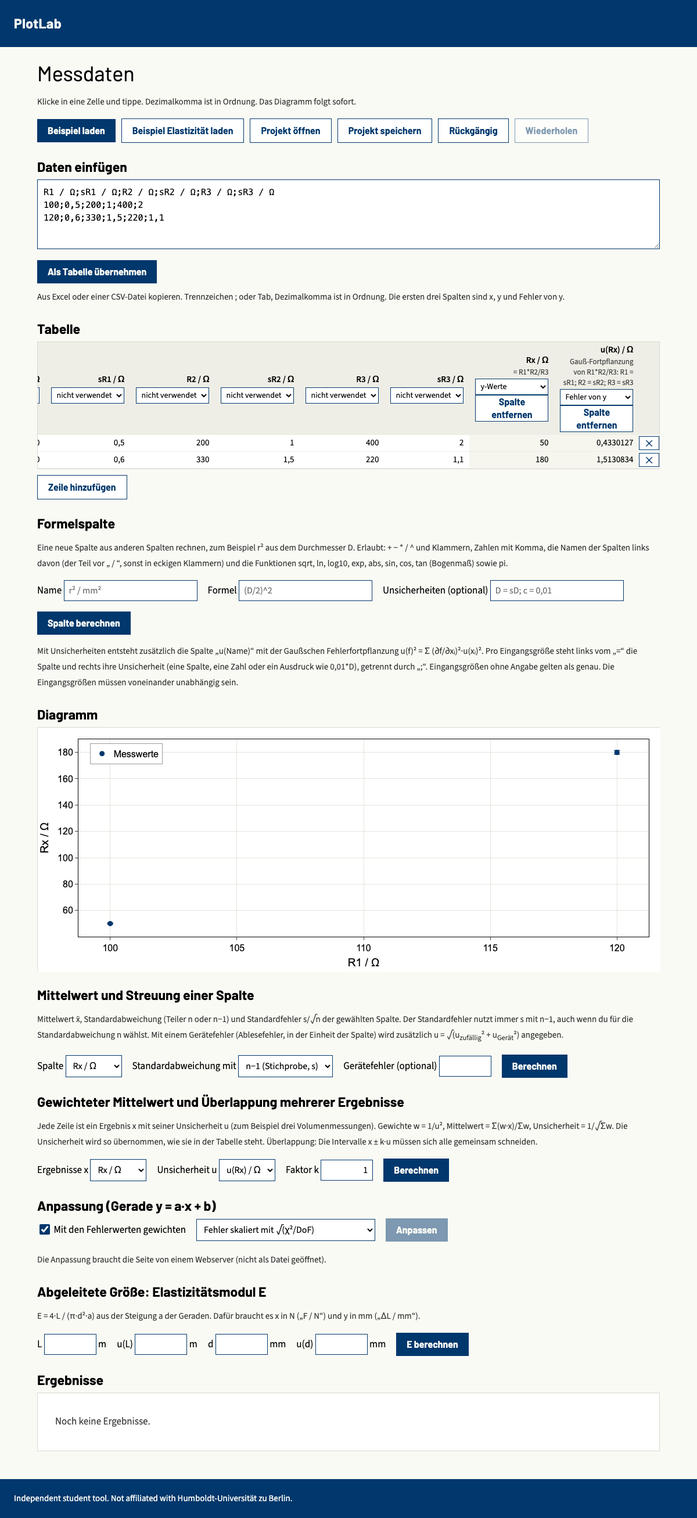
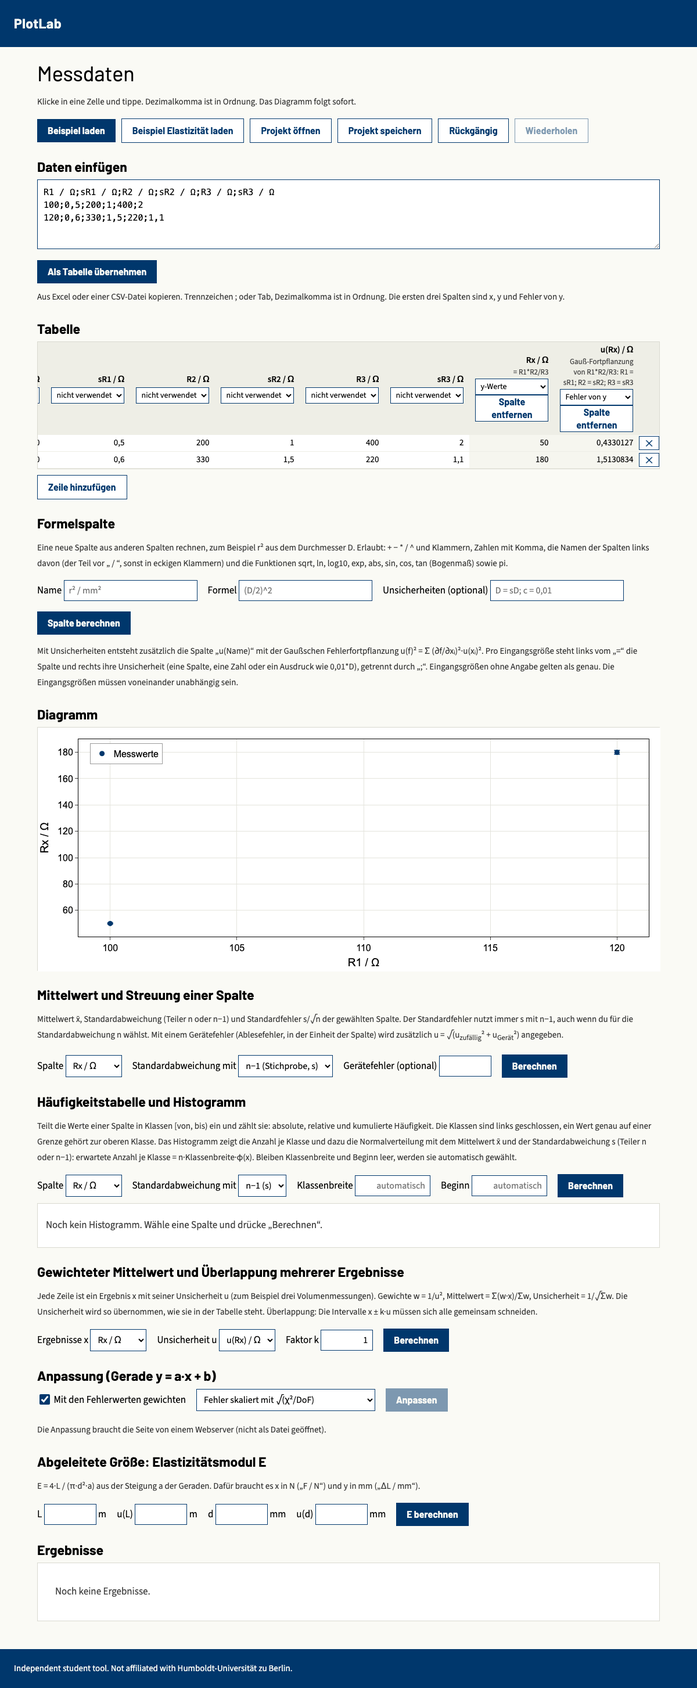
Phase 2 step 5: frequency table and histogram with normal curve

diff --git a/app/index.html b/app/index.html
@@ -53,6 +53,9 @@
   td input.bad { background:#fde8ea; outline:2px solid #B00020; outline-offset:-2px; }
   textarea { width:100%; height:120px; font:15px/22px ui-monospace, Menlo, Consolas, monospace; padding:10px; border:1px solid var(--blue); border-radius:0; background:#fff; resize:vertical; }
   #plot { background:#fff; border:1px solid var(--line); height:420px; }
+  #histplot { background:#fff; border:1px solid var(--line); height:400px; }
+  #histplot:has(> .empty) { height:auto; }
+  #h_w, #h_s { width:130px; }
   #results { background:#fff; border:1px solid var(--line); padding:12px 16px; }
   .result.stale .res { opacity:.5; }
   .res { font:700 20px "Barlow", system-ui, sans-serif; margin:2px 0; }
@@ -107,6 +110,17 @@
     <button class="btn" id="s_go" disabled>Berechnen</button>
   </div>
   <div id="statsmsg" class="msg" role="alert" hidden></div>
+  <h2>Häufigkeitstabelle und Histogramm</h2>
+  <p class="hint">Teilt die Werte einer Spalte in Klassen [von, bis) ein und zählt sie: absolute, relative und kumulierte Häufigkeit. Die Klassen sind links geschlossen, ein Wert genau auf einer Grenze gehört zur oberen Klasse. Das Histogramm zeigt die Anzahl je Klasse und dazu die Normalverteilung mit dem Mittelwert x̄ und der Standardabweichung s (Teiler n oder n−1): erwartete Anzahl je Klasse = n·Klassenbreite·φ(x). Bleiben Klassenbreite und Beginn leer, werden sie automatisch gewählt.</p>
+  <div class="fitbar" id="hist">
+    <label>Spalte <select id="h_col" aria-label="Spalte für das Histogramm"></select></label>
+    <label>Standardabweichung mit <select id="h_ddof" aria-label="Teiler der Standardabweichung für die Normalverteilung"><option value="1">n−1 (s)</option><option value="0">n (σ)</option></select></label>
+    <label>Klassenbreite <input class="num" id="h_w" aria-label="Klassenbreite in der Einheit der Spalte, leer für automatisch" inputmode="decimal" placeholder="automatisch"></label>
+    <label>Beginn <input class="num" id="h_s" aria-label="Beginn der ersten Klasse in der Einheit der Spalte, leer für automatisch" inputmode="decimal" placeholder="automatisch"></label>
+    <button class="btn" id="h_go" disabled>Berechnen</button>
+  </div>
+  <div id="hmsg" class="msg" role="alert" hidden></div>
+  <div id="histplot"><div class="empty">Noch kein Histogramm. Wähle eine Spalte und drücke „Berechnen“.</div></div>
   <h2>Gewichteter Mittelwert und Überlappung mehrerer Ergebnisse</h2>
   <p class="hint">Jede Zeile ist ein Ergebnis x mit seiner Unsicherheit u (zum Beispiel drei Volumenmessungen). Gewichte w = 1/u², Mittelwert = Σ(w·x)/Σw, Unsicherheit = 1/√Σw. Die Unsicherheit wird so übernommen, wie sie in der Tabelle steht. Überlappung: Die Intervalle x ± k·u müssen sich alle gemeinsam schneiden.</p>
   <div class="fitbar" id="wmean">
@@ -206,7 +220,7 @@ function restoreAutosave() {
 function setProject(p) {
   proj = p; undo = []; redo = []; editKey = null; updateHist();
   $("msg").hidden = true;
-  $("saveproj").disabled = $("addrow").disabled = $("f_add").disabled = $("s_go").disabled = $("w_go").disabled = false; if (worker?.ready && !pending) $("fit").disabled = false;
+  $("saveproj").disabled = $("addrow").disabled = $("f_add").disabled = $("s_go").disabled = $("w_go").disabled = $("h_go").disabled = false; if (worker?.ready && !pending) $("fit").disabled = false;
   render();
 }
 function showMsg(t) { $("msg").textContent = t; $("msg").hidden = false; }
@@ -268,7 +282,37 @@ function wmeanDetail(r) {
   return `<div class="detail" data-how>Ergebnisse „${esc(i.val)}“ mit Unsicherheiten „${esc(i.unc)}“, n = ${fmt.format(Number(r.n))} Zeilen. Gewichte w = 1/u², Mittelwert Σ(w·x)/Σw, Unsicherheit 1/√Σw.</div>` +
     `<div class="detail" data-verdict>Überlappung der Intervalle x ± ${k}·u: ${esc(r.verdict)}</div>`;
 }
+// Frequency table of the "hist" result. Every number goes through the number formatter, so text from a project file shows as NaN, not as markup.
+const pct = new Intl.NumberFormat("de-DE", { minimumFractionDigits: 1, maximumFractionDigits: 1 });
+const histOk = r => Array.isArray(r.counts) && r.counts.length > 0 && r.counts.length <= 200 && r.counts.every(Number.isFinite) && [r.start, r.width, r.mean, r.s, r.n].every(Number.isFinite) && r.width > 0 && r.s > 0 && r.n > 0;
+function histDetail(r) {
+  const i = r.inputs || {}, n = Number(r.n), w = Number(r.width), s0 = Number(r.start), c = (Array.isArray(r.counts) ? r.counts : []).slice(0, 200).map(Number);
+  const e = j => fmt.format(Number((s0 + j * w).toPrecision(12))), unit = (String(i.col).split("/")[1] || "").trim();
+  let cum = 0;
+  const rows = c.map((k, j) => { cum += k; return `<tr><td>${e(j)} bis unter ${e(j + 1)}</td><td>${fmt.format(k)}</td><td>${pct.format(k / n * 100)} %</td><td>${fmt.format(cum)}</td><td>${pct.format(cum / n * 100)} %</td></tr>`; }).join("");
+  return `<table data-freq><thead><tr><th>Klasse${unit ? " / " + esc(unit) : ""}</th><th>absolut</th><th>relativ</th><th>kumuliert absolut</th><th>kumuliert relativ</th></tr></thead><tbody>${rows}</tbody></table>` +
+    `<div class="detail" data-how>Spalte „${esc(i.col)}“, n = ${fmt.format(n)} Werte, ${fmt.format(c.length)} Klassen der Breite ${fmt.format(w)}${i.width == null ? " (automatisch)" : ""}, Beginn ${fmt.format(s0)}${i.start == null ? " (automatisch)" : ""}. ` +
+    `Normalverteilung mit x̄ und ${i.ddof === 0 ? "σ (Teiler n)" : "s (Teiler n−1)"}: erwartete Anzahl je Klasse = n·Klassenbreite·φ(x).</div>`;
+}
+// The histogram is drawn from a fresh result only; an out-of-date one is removed like the fit line.
+function renderHist() {
+  const r = proj.results.find(q => q.kind === "hist");
+  if (!r || isStale(proj, r) || !histOk(r)) {
+    Plotly.purge("histplot");
+    $("histplot").innerHTML = `<div class="empty">${r && isStale(proj, r) ? "Das Histogramm ist veraltet. Bitte neu berechnen." : "Noch kein Histogramm. Wähle eine Spalte und drücke „Berechnen“."}</div>`; return;
+  }
+  $("histplot").querySelector(".empty")?.remove();
+  const c = r.counts, lo = r.start, hi = r.start + c.length * r.width, N = 120;
+  const xs = Array.from({ length: N + 1 }, (_, j) => lo + (hi - lo) * j / N);
+  const bars = { type: "bar", x: c.map((_, j) => lo + (j + 0.5) * r.width), y: c, width: c.map(() => r.width), name: "Messwerte (Anzahl je Klasse)", marker: { color: "#00376C", line: { color: "#fff", width: 1.5 } } };
+  const curve = { type: "scatter", mode: "lines", x: xs, y: xs.map(x => normalCount(x, r.mean, r.s, r.n, r.width)), name: "Normalverteilung (x̄, " + ((r.inputs || {}).ddof === 0 ? "σ" : "s") + ")", line: { color: "#D55E00", width: 2.5 } };
+  const ax = t => ({ title: { text: t, standoff: 10 }, showline: true, linecolor: "#000", mirror: true, ticks: "outside", gridcolor: "#e4e4dc", zeroline: false, exponentformat: "none" });
+  Plotly.react("histplot", [bars, curve], { font: { family: "Arial, Helvetica, sans-serif", size: 16, color: "#000" }, separators: ",.",
+    margin: { l: 70, r: 20, t: 20, b: 60 }, xaxis: ax(String((r.inputs || {}).col)), yaxis: ax("Anzahl der Messwerte"), paper_bgcolor: "#fff", plot_bgcolor: "#fff",
+    showlegend: true, legend: { x: 0.02, y: 0.98, bgcolor: "#fff", bordercolor: "#999", borderwidth: 1 } }, { displaylogo: false, responsive: true });
+}
 function renderResults() {
+  renderHist();
   if (!proj.results.length) { $("results").innerHTML = '<div class="empty">Noch keine Ergebnisse.</div>'; return; }
   $("results").innerHTML = proj.results.map(r => {
     const stale = isStale(proj, r);
@@ -276,7 +320,7 @@ function renderResults() {
       const u = uOf(q), t = huRound(q.value, u);
       return `<div class="res">${esc(q.name)} = ${t ? `(${t[0]} ± ${t[1]})` : q.plain ? fmtPlain.format(q.value) : fmt.format(q.value)}${q.unit ? " " + esc(q.unit) : ""}</div>`;
     }).join("");
-    return `<div class="result${stale ? " stale" : ""}">${stale ? `<div class="msg stalemsg">Die Daten wurden geändert. Dieses Ergebnis ist veraltet. Bitte neu ${r.kind === "stats" || r.kind === "wmean" ? "berechnen" : "anpassen"}.</div>` : ""}${lines}${r.kind === "fit" && r.dof ? fitDetail(r) : ""}${r.kind === "derived" ? derivedDetail(r) : ""}${r.kind === "stats" ? statsDetail(r) : ""}${r.kind === "wmean" ? wmeanDetail(r) : ""}</div>`;
+    return `<div class="result${stale ? " stale" : ""}">${stale ? `<div class="msg stalemsg">Die Daten wurden geändert. Dieses Ergebnis ist veraltet. Bitte neu ${["stats", "wmean", "hist"].includes(r.kind) ? "berechnen" : "anpassen"}.</div>` : ""}${lines}${r.kind === "fit" && r.dof ? fitDetail(r) : ""}${r.kind === "derived" ? derivedDetail(r) : ""}${r.kind === "stats" ? statsDetail(r) : ""}${r.kind === "wmean" ? wmeanDetail(r) : ""}${r.kind === "hist" ? histDetail(r) : ""}</div>`;
   }).join("");
 }
 // Weighting needs an error column; errors method only matters for a weighted fit.
@@ -286,13 +330,17 @@ function syncControls() {
   $("wlabel").classList.toggle("off", !has);
   $("wlabel").title = has ? "" : "Dafür braucht es eine Spalte mit der Rolle „Fehler von y“.";
   $("errm").value = proj.settings.errMethod || "scaled"; $("errm").disabled = !w;
-  $("fitmsg").hidden = true; $("derivemsg").hidden = true; $("statsmsg").hidden = true; $("wmsg").hidden = true;
+  $("fitmsg").hidden = true; $("derivemsg").hidden = true; $("statsmsg").hidden = true; $("wmsg").hidden = true; $("hmsg").hidden = true;
   const st = statsSettings(proj);
   $("s_col").replaceChildren(...proj.columns.map(c => Object.assign(document.createElement("option"), { value: c.name, textContent: c.name })));
   $("s_col").value = st.col; $("s_ddof").value = st.ddof; $("s_instr").value = st.instr == null ? "" : fmt.format(st.instr); $("s_instr").classList.remove("bad");
   const wm = wmeanSettings(proj), opts = (none) => [...(none ? [Object.assign(document.createElement("option"), { value: "", textContent: "(keine)" })] : []), ...proj.columns.map(c => Object.assign(document.createElement("option"), { value: c.name, textContent: c.name }))];
   $("w_val").replaceChildren(...opts(false)); $("w_unc").replaceChildren(...opts(true));
   $("w_val").value = wm.val; $("w_unc").value = wm.unc ?? ""; $("w_k").value = fmt.format(wm.k); $("w_k").classList.remove("bad");
+  const hs = histSettings(proj);
+  $("h_col").replaceChildren(...proj.columns.map(c => Object.assign(document.createElement("option"), { value: c.name, textContent: c.name })));
+  $("h_col").value = hs.col; $("h_ddof").value = hs.ddof;
+  for (const [id, v] of [["h_w", hs.width], ["h_s", hs.start]]) { $(id).value = v === null ? "" : fmt.format(v); $(id).classList.remove("bad"); }
   for (const k of ["L", "uL", "d", "ud"]) { const v = (proj.settings.young || {})[k]; $("y_" + k).value = v == null ? "" : fmt.format(v); $("y_" + k).classList.remove("bad"); }
 }
 // Formula columns are recomputed from the data on every change; rows that cannot be calculated are named in the message.
@@ -502,6 +550,39 @@ $("w_go").onclick = () => {
   const verdict = d.overlap ? "Alle Intervalle haben einen gemeinsamen Bereich. Die Ergebnisse stimmen im Rahmen ihrer Unsicherheiten überein."
     : "Die Ergebnisse stimmen nicht überein: " + d.bad.map(b => `Zeile ${nr(b.i)} und Zeile ${nr(b.j)} (Lücke ${fmtPlain.format(b.gap)}${unit ? " " + unit : ""})`).join("; ") + ". Der gewichtete Mittelwert ist dann mit Vorsicht zu lesen.";
   change(() => addResult(proj, { kind: "wmean", inputs: st, n: d.n, verdict, params: [{ name: "Gewichteter Mittelwert", unit, value: d.mean, u: d.u }] }));
+};
+// Histogram: column and divisor are one undo step each, typing class width or start is one step per field.
+const setHist = patch => setSetting("hist", { ...histSettings(proj), ...patch });
+$("h_col").onchange = e => setHist({ col: e.target.value });
+$("h_ddof").onchange = e => setHist({ ddof: +e.target.value });
+for (const [id, key] of [["h_w", "width"], ["h_s", "start"]]) {
+  $(id).addEventListener("input", e => {
+    const v = parseCell(e.target.value);
+    e.target.classList.toggle("bad", v === undefined || (key === "width" && v !== null && !(v > 0)));
+    if (e.target.classList.contains("bad")) return;
+    if (editKey !== "hist." + key) { pushUndo(); editKey = "hist." + key; }
+    proj.settings.hist = { ...histSettings(proj), [key]: v };
+    renderResults(); autosave();
+  });
+  $(id).addEventListener("focusout", () => { editKey = null; });
+}
+function histFailed(why) { $("hmsg").textContent = why; $("hmsg").hidden = false; }
+$("h_go").onclick = () => {
+  const st = histSettings(proj), c = proj.columns.find(k => k.name === st.col), vals = c.values.filter(v => v !== null);
+  if ($("h_w").classList.contains("bad")) return histFailed("Die Klassenbreite muss eine Zahl größer als 0 sein (oder leer für automatisch).");
+  if ($("h_s").classList.contains("bad")) return histFailed("Der Beginn der ersten Klasse ist keine Zahl (oder leer für automatisch).");
+  if (vals.length < 2) return histFailed(`Die Spalte „${c.name}“ hat ${vals.length} Wert${vals.length === 1 ? "" : "e"}. Ein Histogramm mit Normalverteilung braucht mindestens zwei Werte.`);
+  const lo = Math.min(...vals), hi = Math.max(...vals);
+  if (lo === hi) return histFailed(`Alle Werte der Spalte „${c.name}“ sind gleich (${fmt.format(lo)}). Die Standardabweichung ist 0, daher gibt es keine Normalverteilung und keine sinnvolle Klasseneinteilung.`);
+  const auto = autoBins(vals), width = st.width ?? auto.width, start = st.start ?? auto.start;
+  if (start > lo) return histFailed(`Der Beginn ${fmt.format(start)} liegt über dem kleinsten Wert ${fmt.format(lo)}. Bitte einen Beginn kleiner oder gleich dem kleinsten Wert wählen.`);
+  const k = Math.floor((hi - start) / width + 1e-9) + 1;
+  if (k > 100) return histFailed(`Mit Klassenbreite ${fmt.format(width)} gäbe es ${fmt.format(k)} Klassen. Das sind zu viele (höchstens 100). Bitte eine größere Klassenbreite wählen.`);
+  const h = histogram(vals, start, width), d = describe(vals, st.ddof), unit = (c.name.split("/")[1] || "").trim();
+  change(() => addResult(proj, {
+    kind: "hist", inputs: st, n: d.n, start, width, counts: h.counts, mean: d.mean, s: d.s,
+    params: [{ name: "Mittelwert x̄", unit, value: d.mean, u: d.sem }, { name: st.ddof === 0 ? "Standardabweichung σ (Teiler n)" : "Standardabweichung s (Teiler n−1)", unit, value: d.s, plain: true }],
+  }));
 };
 $("weighted").onchange = e => setSetting("weighted", e.target.checked);
 $("errm").onchange = e => setSetting("errMethod", e.target.value);

diff --git a/app/project.js b/app/project.js
@@ -32,13 +32,22 @@ function wmeanSettings(p) {
 }
 const wmeanKey = p => { const st = wmeanSettings(p), by = n => (p.columns.find(c => c.name === n) || {}).values; return fnv(JSON.stringify([st, by(st.val), by(st.unc)])); };
 
+// Frequency table and histogram of one column (P1): column, divisor of s, class width and start (null = automatic).
+function histSettings(p) {
+  const st = p.settings.hist || {}, y = p.columns.find(c => c.role === "y") || p.columns[0];
+  return { col: p.columns.some(c => c.name === st.col) ? st.col : y.name, ddof: st.ddof === 0 ? 0 : 1, width: st.width > 0 ? st.width : null, start: Number.isFinite(st.start) ? st.start : null };
+}
+const histKey = p => { const st = histSettings(p); return fnv(JSON.stringify([st, p.columns.find(c => c.name === st.col).values])); };
+// Results that depend on their own settings and columns instead of the x/y/error fingerprint.
+const KEYS = { stats: statsKey, wmean: wmeanKey, hist: histKey };
+
 function addResult(p, result) {
   p.results = p.results.filter(r => r.kind !== result.kind);
-  p.results.push({ ...result, settings: { ...p.settings }, computedFrom: result.kind === "stats" ? statsKey(p) : result.kind === "wmean" ? wmeanKey(p) : fingerprint(p) });
+  p.results.push({ ...result, settings: { ...p.settings }, computedFrom: (KEYS[result.kind] || fingerprint)(p) });
 }
 
 // Stale when the data changed, weighting was switched after the fit, or (derived results) the extra inputs changed.
-const isStale = (p, r) => r.kind === "stats" ? r.computedFrom !== statsKey(p) : r.kind === "wmean" ? r.computedFrom !== wmeanKey(p) : r.computedFrom !== fingerprint(p) || (r.settings || {}).weighted !== p.settings.weighted ||
+const isStale = (p, r) => KEYS[r.kind] ? r.computedFrom !== KEYS[r.kind](p) : r.computedFrom !== fingerprint(p) || (r.settings || {}).weighted !== p.settings.weighted ||
   (r.kind === "derived" && JSON.stringify((r.settings || {}).young) !== JSON.stringify(p.settings.young));
 
 const save = p => JSON.stringify(p, null, 1);
@@ -56,4 +65,4 @@ function open(text) {
   return ok ? { project: p } : { error: "Das Projekt ist beschädigt: Spalten oder Werte fehlen oder sind keine Zahlen." };
 }
 
-if (typeof module !== "undefined") module.exports = { statsSettings, wmeanSettings, ROLES, newProject, fingerprint, addResult, isStale, save, open };
+if (typeof module !== "undefined") module.exports = { statsSettings, wmeanSettings, histSettings, ROLES, newProject, fingerprint, addResult, isStale, save, open };

diff --git a/app/stats.js b/app/stats.js
@@ -18,4 +18,19 @@ function weightedMean(x, u, k) {
   }
   return { n, mean: x.reduce((a, v, i) => a + w[i] * v, 0) / sw, u: 1 / Math.sqrt(sw), w, overlap: !bad.length, bad };
 }
-if (typeof module !== "undefined") module.exports = { describe, weightedMean };
+// Frequency table (P1): classes [start + i·width, start + (i+1)·width), left-closed, so a value on a boundary belongs to the upper class.
+// The 1e-9 keeps (9,7 - 9,5)/0,2 = 0,99999... in class 1 instead of class 0.
+function histogram(values, start, width) {
+  const k = Math.floor((Math.max(...values) - start) / width + 1e-9) + 1, counts = new Array(k).fill(0);
+  for (const v of values) counts[Math.floor((v - start) / width + 1e-9)]++;
+  return { counts, edges: Array.from({ length: k + 1 }, (_, i) => Number((start + i * width).toPrecision(12))) };
+}
+// Automatic classes: about 1 + log2(n) of them (Sturges), the width rounded up to 1, 2 or 5 times a power of ten, the start on a multiple of the width.
+function autoBins(values) {
+  const lo = Math.min(...values), raw = (Math.max(...values) - lo) / Math.ceil(1 + Math.log2(values.length)), pow = 10 ** Math.floor(Math.log10(raw)), m = raw / pow;
+  const width = Number(((m <= 1 ? 1 : m <= 2 ? 2 : m <= 5 ? 5 : 10) * pow).toPrecision(12));
+  return { width, start: Number((Math.floor(lo / width + 1e-9) * width).toPrecision(12)) };
+}
+// Expected number of readings per class of width w at x for a normal distribution fitted to n readings (mean, s): n·w·φ((x-mean)/s)/s.
+const normalCount = (x, mean, s, n, w) => n * w * Math.exp(-((x - mean) ** 2) / (2 * s * s)) / (s * Math.sqrt(2 * Math.PI));
+if (typeof module !== "undefined") module.exports = { describe, weightedMean, histogram, autoBins, normalCount };

diff --git a/tests/reference/histogram.py b/tests/reference/histogram.py
@@ -1,0 +1,17 @@
+# Independent hand calculation for tests/phase2-step5-histogram.mjs: 30 length readings l / mm, classes of width 0,2 mm from 9,5 mm,
+# left-closed [a, b). Counts are made by exact fractions (so 9,7 sits in class [9,7; 9,9) for sure). Run: python3 tests/reference/histogram.py
+from fractions import Fraction as F
+from math import exp, pi, sqrt
+vals = [F(v) for v in "9.5 9.6 9.7 9.7 9.8 9.8 9.8 9.9 9.9 9.9 10.0 10.0 10.0 10.0 10.05 10.05 10.1 10.1 10.1 10.2 10.2 10.2 10.2 10.2 10.3 10.3 10.4 10.4 10.5 10.6".split()]
+n = len(vals); start, w = F("9.5"), F("0.2")
+counts = [0] * 6
+for v in vals: counts[int((v - start) // w)] += 1
+print("n", n, "counts", counts, "sum", sum(counts))
+print("relative %", [float(F(c, n) * 100) for c in counts])
+cum = [sum(counts[:i + 1]) for i in range(6)]
+print("cumulative", cum, [float(F(c, n) * 100) for c in cum])
+mean = sum(vals) / n; ss = sum((v - mean) ** 2 for v in vals)
+print("mean", float(mean), "s(n-1)", sqrt(ss / (n - 1)), "sigma(n)", sqrt(ss / n))
+for name, s in (("n-1", sqrt(ss / (n - 1))), ("n", sqrt(ss / n))):
+    f = lambda x: float(n * w) * exp(-(x - float(mean)) ** 2 / (2 * s * s)) / (s * sqrt(2 * pi))
+    print("curve", name, "at mean", f(float(mean)), "at 9.5", f(9.5), "at 10.0", f(10.0), "at 10.7", f(10.7))

diff --git a/docs/progress.md b/docs/progress.md
@@ -11,7 +11,7 @@ Phase 1 is finished (see `docs/phase1-report.md`). Phase 2 **assumes P1 to P9** 
 - [x] 2. Error propagation for formula columns (P2, P5, P6): optional uncertainty column per formula result, Gaussian propagation from the uncertainties of the inputs (independent inputs). Test: product, quotient and square-root cases against hand-derived partial derivatives, including the Wheatstone bridge Rx = R1·R2/R3 case.
 - [x] 3. Mean, standard deviation (n or n−1, chosen by the student), standard error, and random plus instrument error combined in quadrature (P2 volume measurement, P1). Test: a 10-value sample against hand values for both choices of n; result lines in HU format.
 - [x] 4. Weighted mean with uncertainty and an overlap check of several results (P2). Test: three volume results with different uncertainties against hand values (w = 1/u², mean, 1/√Σw); the overlap verdict (within k·u) matches the hand check.
-- [ ] 5. Frequency table (absolute, relative, cumulative) and histogram with the fitted normal curve (P1). Test: 30 hand-made readings, bin counts and normal-curve height against hand values; axis labels carry quantity and unit.
+- [x] 5. Frequency table (absolute, relative, cumulative) and histogram with the fitted normal curve (P1). Test: 30 hand-made readings, bin counts and normal-curve height against hand values; axis labels carry quantity and unit.
 - [ ] 6. Cumulative probability plot with the 16 % and 84 % read-off (P1). Test: values read off the hand-made cumulative table; the plot marks both levels.
 - [ ] 7. General derived quantity from fit parameters (P3, P4, P5, P9): a formula over a, b, u(a), u(b) with propagation; the E of step 6 of Phase 1 becomes the first template of it. Test: the P3 numbers of `tests/phase1-step6-elasticity.mjs` are reproduced exactly (E = (201 ± 8) GPa), plus one new case (g from the slope of T² against l, P9) by hand.
 - [ ] 8. Fit a chosen x range and several y series in one plot (P3 loading and unloading). Test: two series fitted separately against hand values; both lines drawn and named in the legend; the two slopes compared in units of their combined uncertainty.
@@ -79,3 +79,4 @@ Phase 1 is finished (see `docs/phase1-report.md`). Phase 2 **assumes P1 to P9** 
 - 2026-10-14, Phase 2 step 2: A student can now give a formula column uncertainties ("Unsicherheiten", e.g. `R1 = sR1; R2 = sR2; R3 = sR3`) and gets a second column "u(Rx)" with Gaussian error propagation; inputs not listed count as exact, the right-hand side may be a column, a number or an expression like 0,01*D. The u column updates with the data, is saved, undone and restored like other columns, and can be the y error of the plot (error bars follow). Slopes of the formula are taken numerically (central differences on the parsed formula, no eval), good to about 1e-9 relative. Tested (`tests/phase2-step2-propagate.sh`) against hand-derived partial derivatives, never the app: Wheatstone Rx = 50, u = 0,4330127; Rx = 180, u = 1,5130834 (also confirmed in a separate Python run with exact fractions); product, quotient, sqrt (4 ± 0,2 gives 0,05), ln, 2^x, sum 3-4-5 (0,5), x·x with one input used twice (0,6, not 0,424), constant and relative uncertainty; in the real page with undo, reload, save/open, plot error bars and a hand-edited project with script text in the new fields (nothing ran). Bad input (unknown column, missing "=", input not in formula, twice, duplicate name, negative uncertainty, division by zero) gives clear German messages. All 17 checks in `scripts/check.sh` pass. Screenshots `evidence/phase2-step2-propagate.png`, `-error.png` judged OK. Limits: inputs assumed independent (stated on the page; a formula on top of another formula column that shares inputs is the student's responsibility); the formula and the uncertainty text cannot be edited in place; new code in `app/propagate.js`.
 - 2026-10-14, Phase 2 step 3: A student can now pick a column under "Mittelwert und Streuung einer Spalte", choose the divisor n or n−1 for the standard deviation, optionally enter an instrument (reading) error, press "Berechnen" and read: Mittelwert x̄ = (value ± standard error) unit in HU format, the standard deviation s or σ, the standard error s/√n, and with an instrument error a second mean line with random and instrument error added in quadrature. The standard error always uses s with n−1 (stated on the page). Settings are in the project (undo, autosave, save/open work); changing the column, divisor, instrument error or any value of that column greys the result out as out of date ("Bitte neu berechnen"). Tested (`tests/phase2-step3-stats.sh`) with ten burette readings against hand values (exact fractions): mean 10,11 mL, s(n−1) = 0,0258199, σ(n) = 0,0244949, standard error 0,00816497, with 0,02 mL instrument error 0,0216025; on screen (10,110 ± 0,008) mL and (10,110 ± 0,022) mL, s = 0,0258 or σ = 0,0245 mL. Bad input (a column with one value, negative or non-numeric instrument error) gives clear German messages and no result; a hand-edited project with script text in the stats fields runs nothing. All 18 checks in `scripts/check.sh` pass. Screenshots `evidence/phase2-step3-stats.png`, `-error.png` judged OK. New code: `app/stats.js` (pure math); `app/project.js` got `statsSettings` and a stale rule for statistics. Limits: one statistics result at a time; s and the standard error are shown as plain numbers with 3 significant digits (they have no uncertainty of their own).
 - 2026-10-14, Phase 2 step 4: A student can now pick a results column and an uncertainty column (default: the y and y-error columns), set the factor k (default 1) and press "Berechnen" under "Gewichteter Mittelwert und Überlappung mehrerer Ergebnisse". The page shows the weighted mean in HU format with weights 1/u² and u = 1/√Σw, and says whether the intervals x ± k·u share a common range or names the rows that do not overlap, with the gap. Rows with an empty cell are skipped. Settings are in the project (undo, autosave, save/open); changing a column, k or a value greys the result out. Tested (`tests/phase2-step4-wmean.sh`) with three volume results 10,3 ± 0,2; 10,5 ± 0,3; 9,9 ± 0,1 cm³ against a separate hand calculation in exact fractions (`tests/reference/weighted_mean.py`): Σw = 136,111, mean 10,022449, u = 0,0857143 (3/35); on screen (10,02 ± 0,09) cm³; k = 1: rows 1/3 (gap 0,1) and 2/3 (gap 0,2) do not overlap; k = 2: all overlap. Equal-uncertainty case gives the plain mean and u0/√n. Bad input (u = 0 with the row named, no uncertainty column, same column twice, k = 0 or text, one usable row) gives clear German messages and no result; a hand-edited project with script text in the new fields runs nothing. All 19 checks in `scripts/check.sh` pass. Screenshots `evidence/phase2-step4-wmean.png`, `-error.png` judged OK. Limits: the uncertainty 1/√Σw is not scaled by χ²/DoF (stated on the page); no separate χ² consistency number; one weighted-mean result at a time. New code: `weightedMean` in `app/stats.js`; `wmeanSettings` in `app/project.js`.
+- 2026-10-14, Phase 2 step 5: A student can now pick a column under "Häufigkeitstabelle und Histogramm", optionally type a class width and a start (empty = automatic, and the page says what it used), choose n or n−1 for s and press "Berechnen". They get a table of classes (von bis unter) with absolute, relative and cumulative (absolute and relative) frequency, the mean as (10,05 ± 0,05) mm and s, and a histogram of the counts with the fitted normal curve, axis labels "l / mm" and "Anzahl der Messwerte", and a legend. Classes are closed on the left, so a reading on a limit counts in the upper class. Tested (`tests/phase2-step5-histogram.sh`) with 30 hand-made length readings against a separate hand calculation in exact fractions (`tests/reference/histogram.py`): counts 2 5 9 8 4 2, relative 6,7 16,7 30,0 26,7 13,3 6,7 %, cumulative 2 7 16 24 28 30, mean 10,05, s(n−1) = 0,263269, σ(n) = 0,258844; every plotted point of the curve matches n·w·φ(x) (9,0921 at the mean with n−1, 9,0766 at 10,0 with n); automatic classes (width 0,2 from 9,4) give 1 3 6 9 7 3 1 counted by hand. The test has teeth: without the rounding guard for readings exactly on a class limit (9,7 and 10,1 are 0,9999... and 2,9999... in floating point) the counts come out wrong (4 3 12 5 4 2). Edit, divisor change, undo, reload and save/open behave (a stale result removes the plot, like the fit line). Bad input (width 0 or text, start above the minimum, more than 100 classes, one value, all values equal) gives a clear German message and no result; a hand-edited project with script text everywhere runs nothing. All 20 checks in `scripts/check.sh` pass. Screenshots `evidence/phase2-step5-hist.png`, `-hist-plot.png`, `-error.png` judged OK (found and fixed: the "automatisch" placeholder was cut off in the narrow field, and the empty plot box was too tall). New code: `histogram`, `autoBins`, `normalCount` in `app/stats.js`; `histSettings` and a `KEYS` table for result freshness in `app/project.js`. Limits: one histogram result at a time; the cumulative plot with the 16 % and 84 % read-off is step 6; PNG/SVG export of this plot comes in step 14.

diff --git a/CHANGELOG.md b/CHANGELOG.md
@@ -2,6 +2,13 @@
 
 Written in plain language for people who do not read code. Newest entry on top.
 
+## 2026-10-14: Frequency table and histogram with normal curve (P1)
+
+- **What a student can now do:** under "Häufigkeitstabelle und Histogramm" pick a column (for example 30 length readings) and press "Berechnen". The page shows a table with each class (von bis unter), the absolute, relative and cumulative frequency, and a histogram of the counts with the fitted normal curve (mean x̄ and s with n−1, or σ with n, as chosen) and a legend. The mean is given as (value ± u) unit, for example (10,05 ± 0,05) mm.
+- **Good to know:** class width and start can be typed in or left empty for an automatic choice (the page says which values it used). Classes are closed on the left: a reading exactly on a class limit counts in the upper class. Editing the data, the divisor, the width or the start marks the result as out of date and removes the plot until you press "Berechnen" again.
+- **Messages:** a class width of 0 or text, a start above the smallest value, more than 100 classes, a column with fewer than two values, and a column where all values are equal give a plain German message.
+- **Tested:** `tests/phase2-step5-histogram.sh` with 30 hand-made readings against a separate hand calculation in exact fractions (counts 2 5 9 8 4 2, cumulative 2 7 16 24 28 30, mean 10,05, s 0,263269; curve 9,092 at the mean), including readings exactly on class limits, in the real page with undo, reload, save, reopen and a hand-edited project file.
+
 ## 2026-10-14: Weighted mean and overlap check (P2)
 
 - **What a student can now do:** under "Gewichteter Mittelwert und Überlappung mehrerer Ergebnisse" pick the column with the results (for example three volume measurements) and the column with their uncertainties, set the factor k (default 1) and press "Berechnen". The page shows the weighted mean as (value ± u) unit in HU format, for example (10,02 ± 0,09) cm³, with weights 1/u² and u = 1/√Σw. It also says whether the intervals x ± k·u all share a common range ("stimmen im Rahmen ihrer Unsicherheiten überein") or names the rows that do not overlap and by how much.
